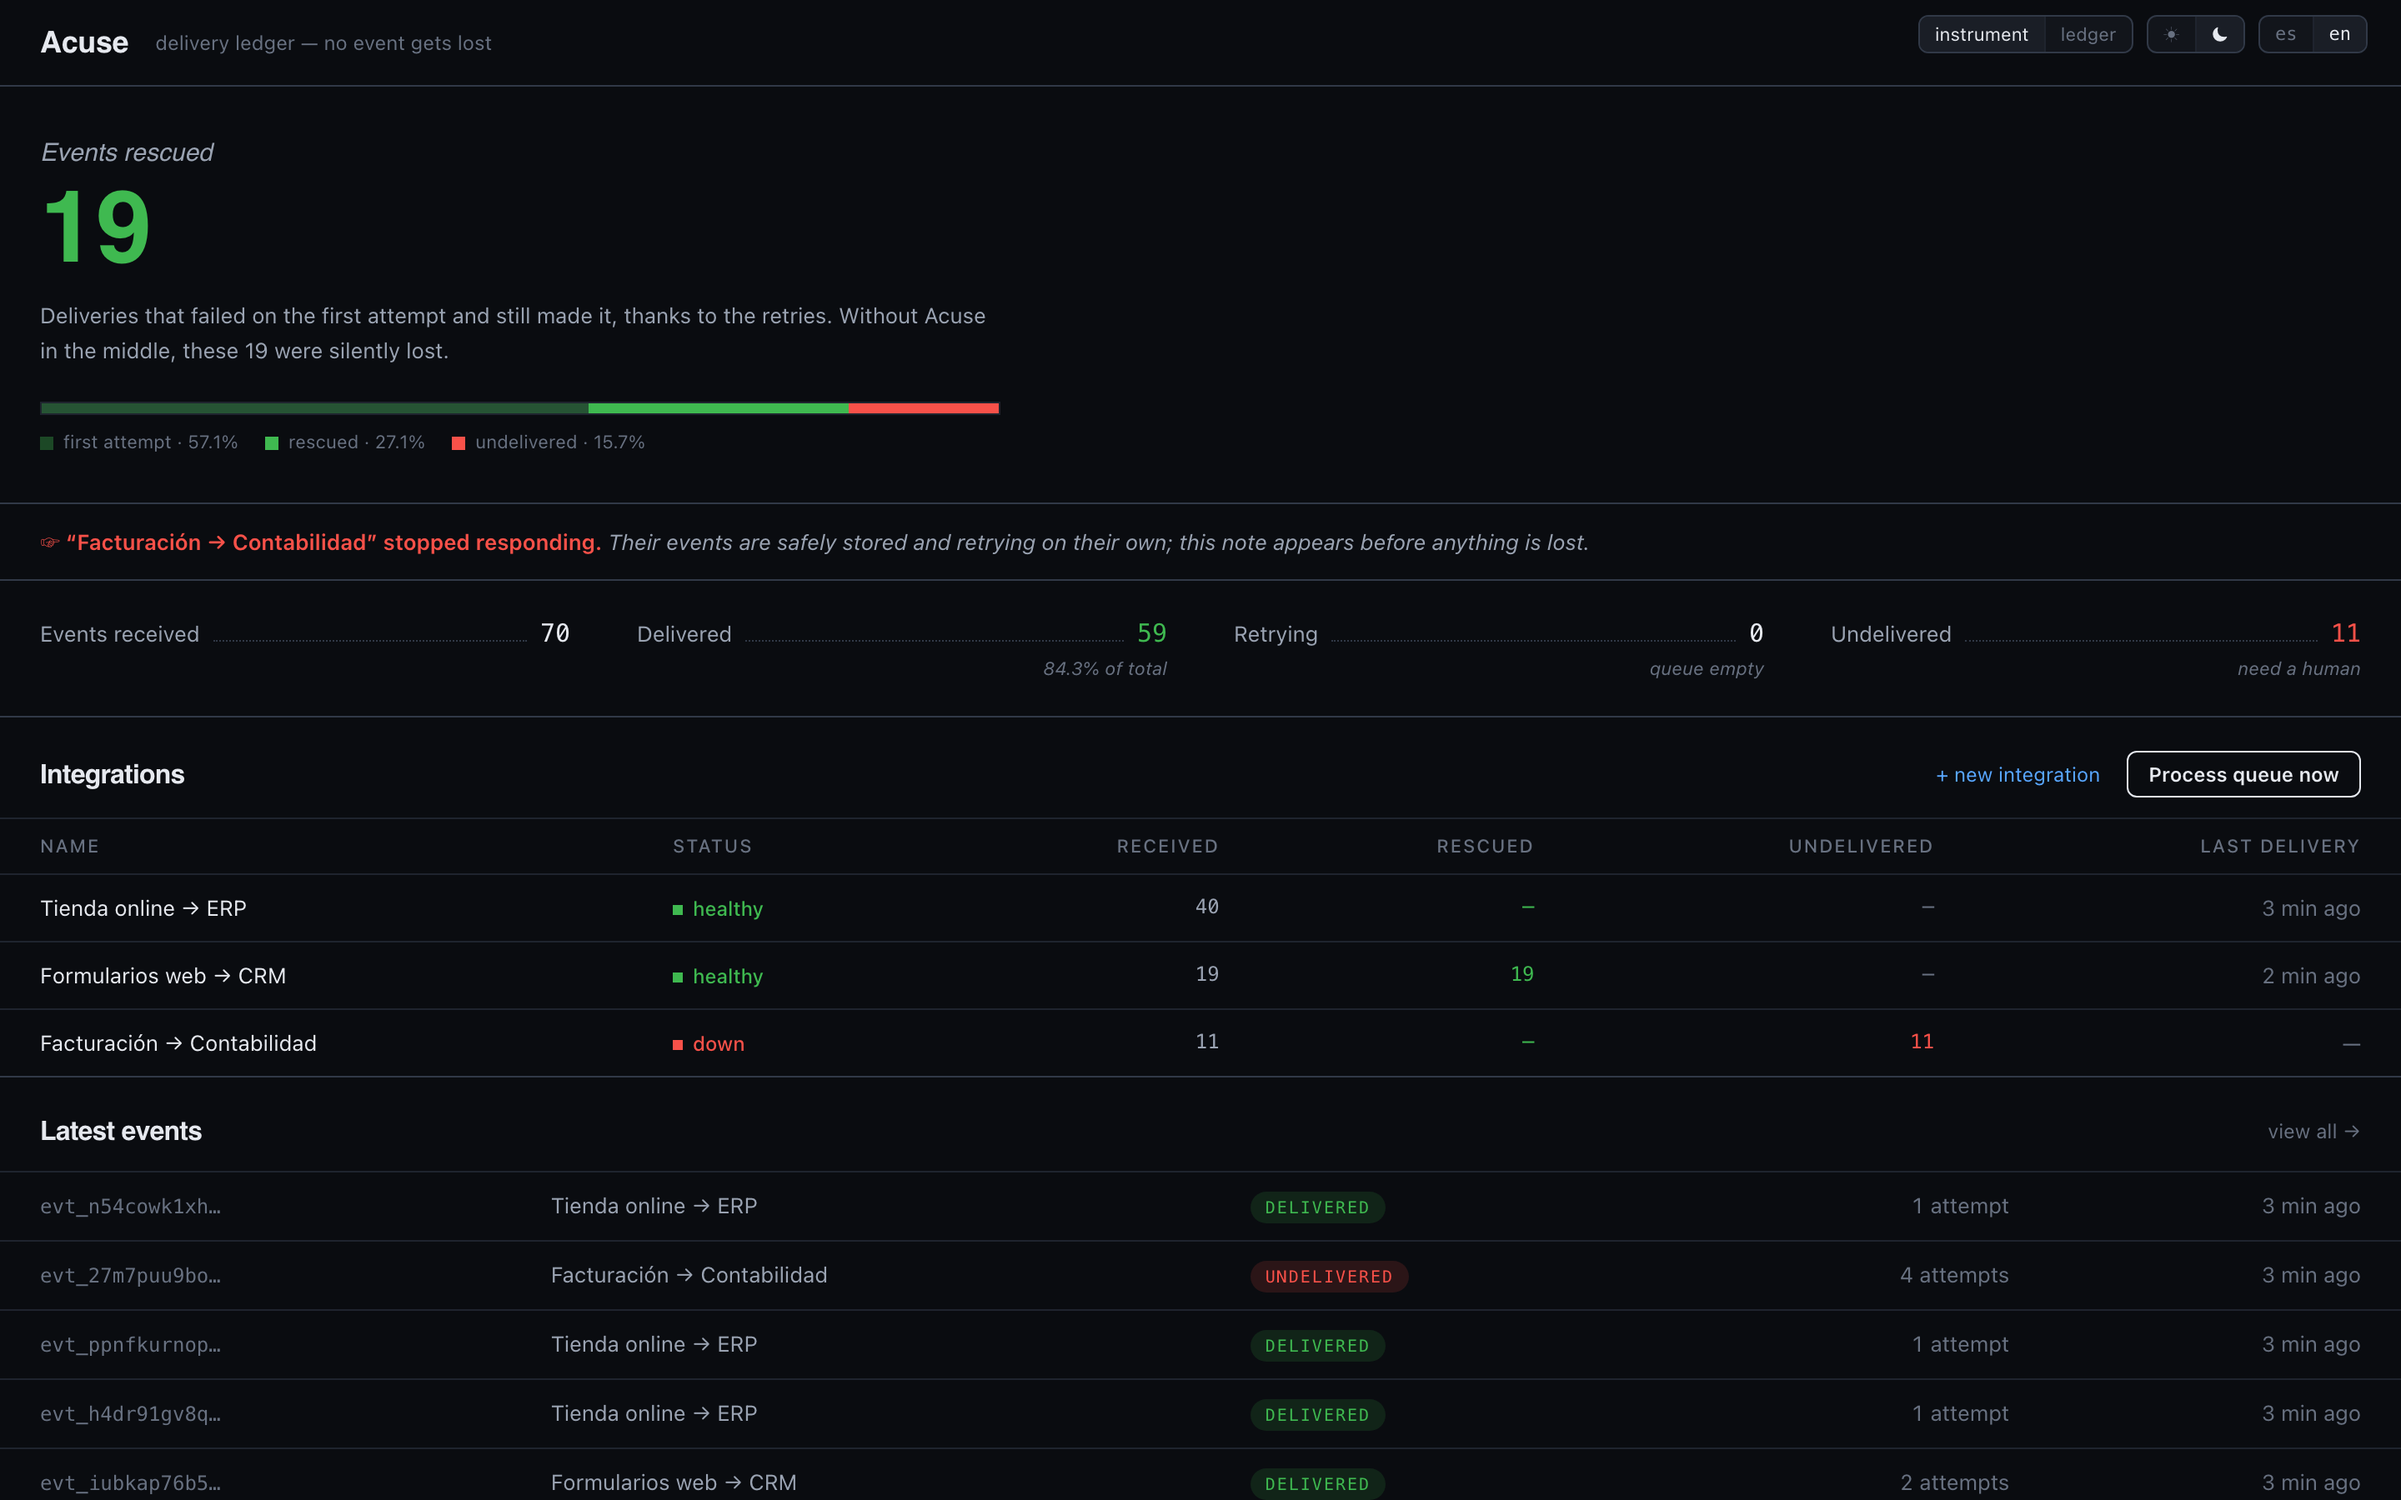
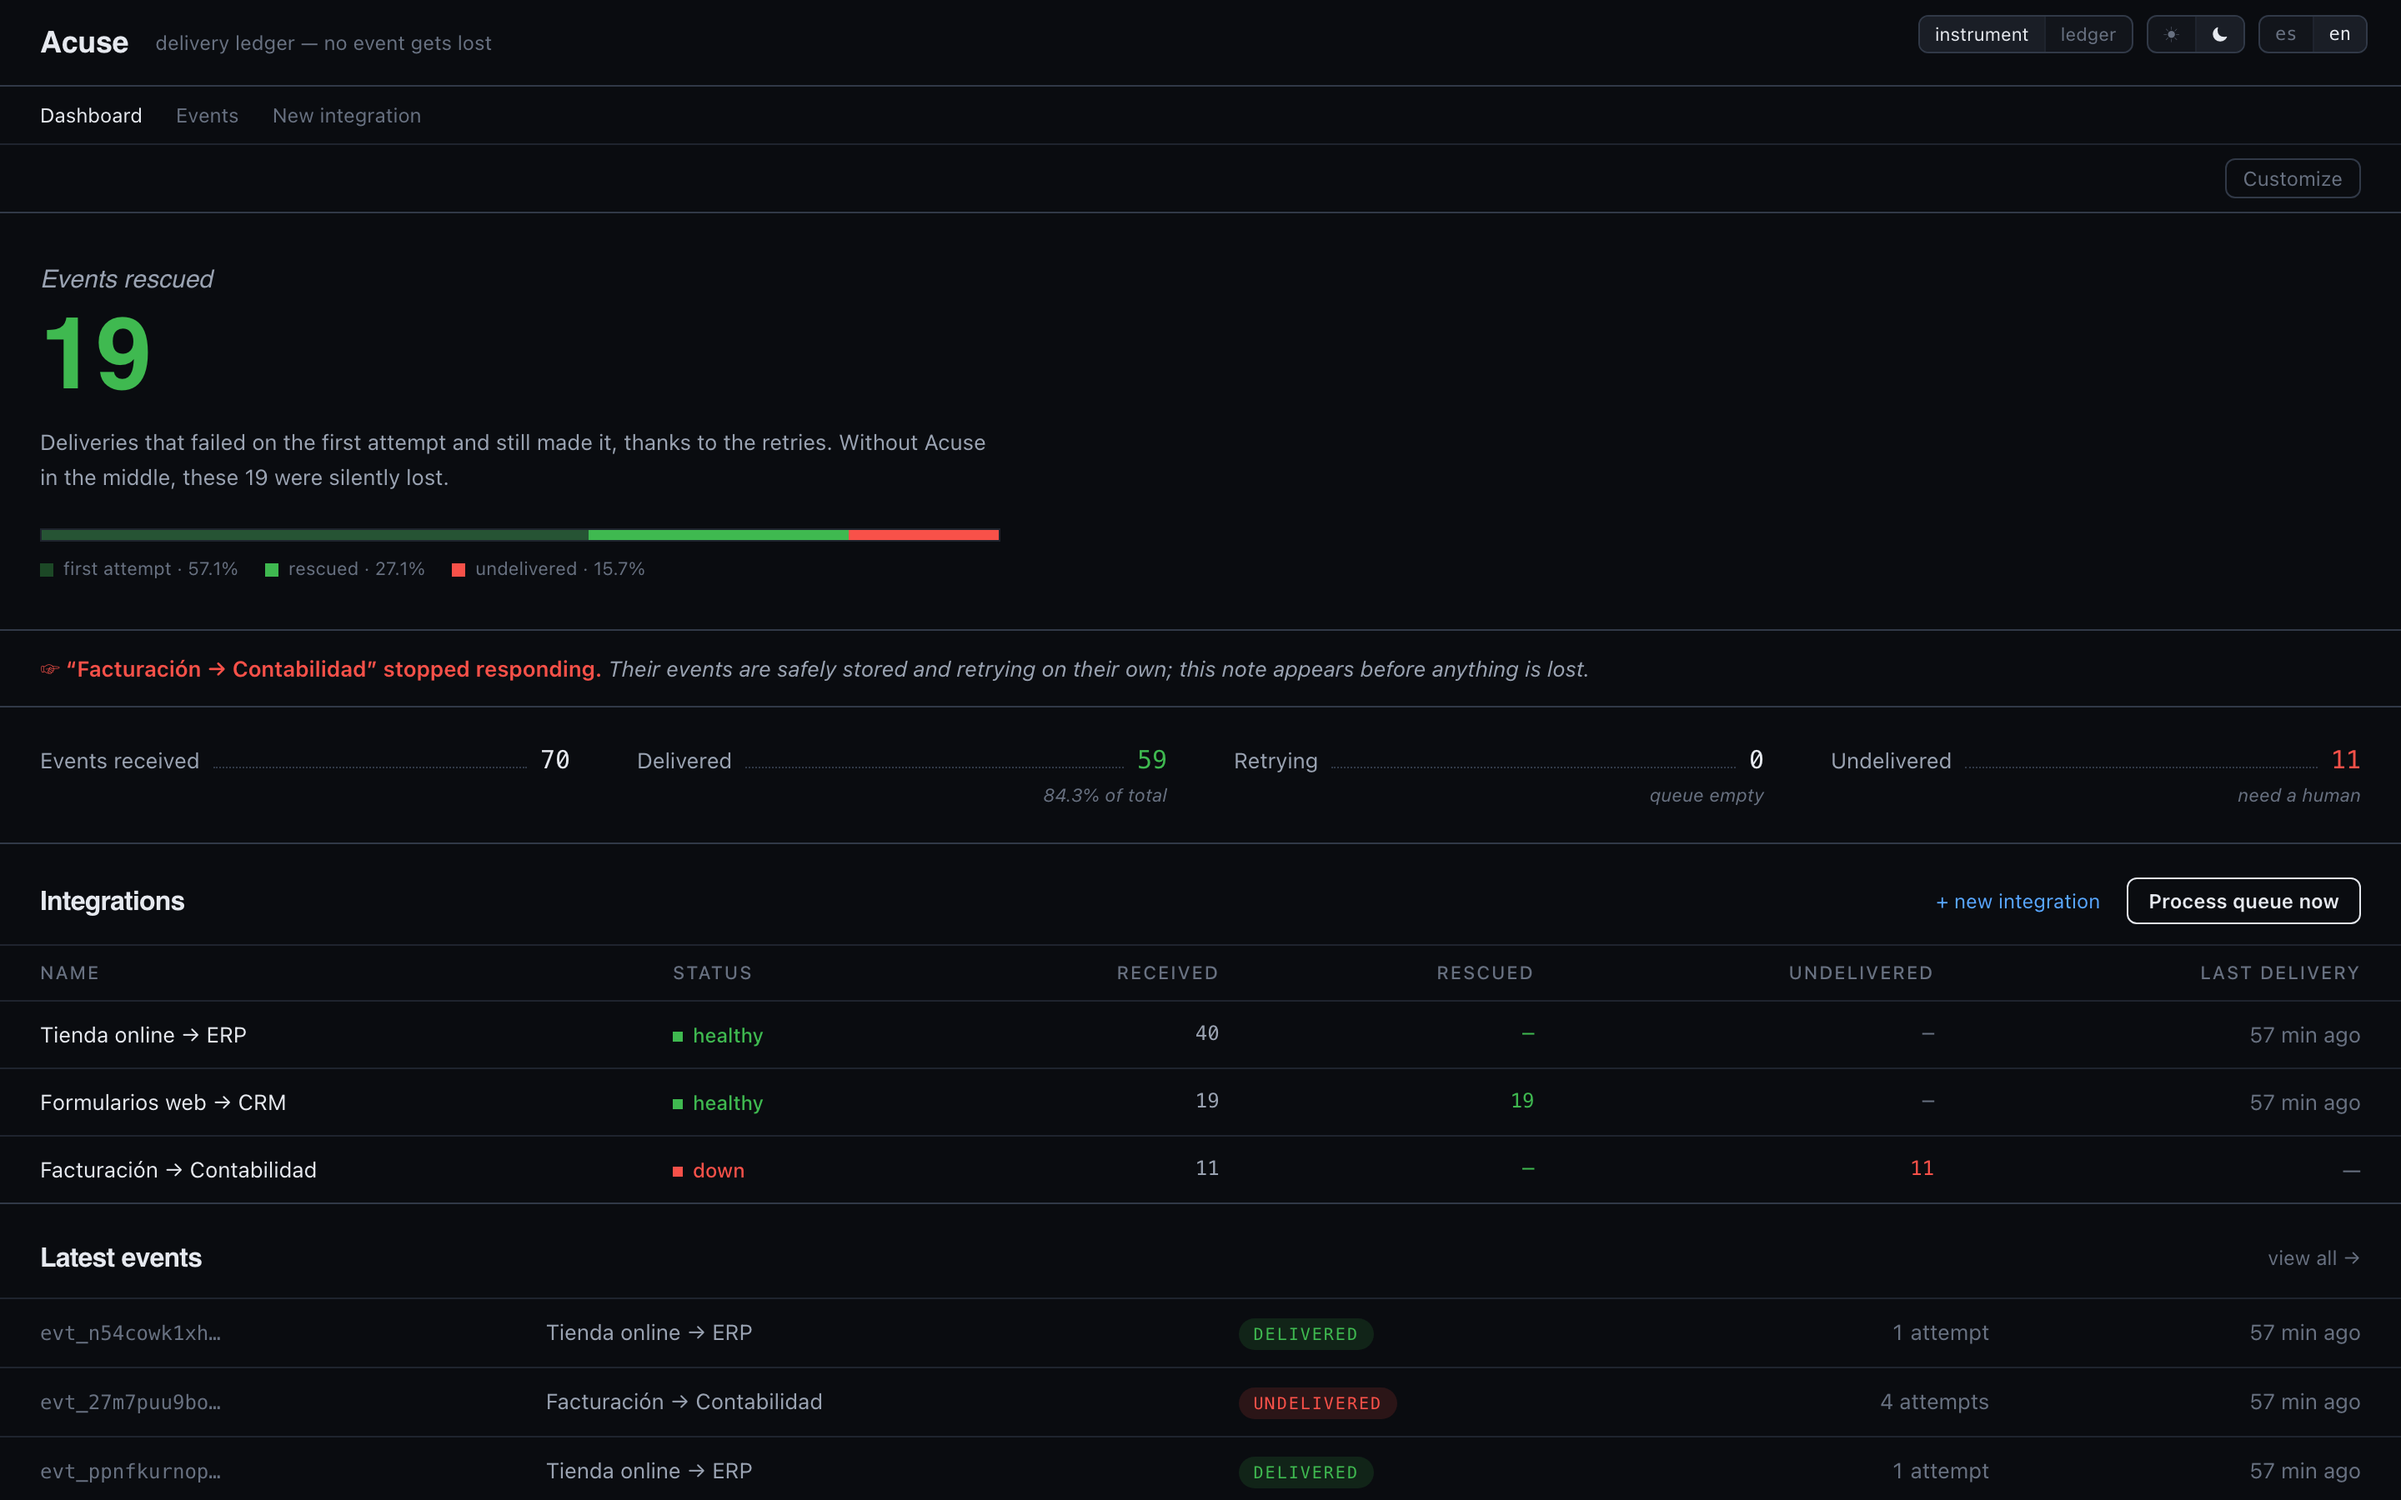
Navegación visible y panel personalizable: elegí qué secciones mostrar, con memoria

diff --git a/src/components/panel-sections.tsx b/src/components/panel-sections.tsx
@@ -1,0 +1,77 @@
+'use client'
+
+import { useEffect, useState } from 'react'
+
+const SECTION_KEYS = ['number', 'totals', 'integrations', 'latest'] as const
+
+type SectionKey = (typeof SECTION_KEYS)[number]
+
+const STORAGE_KEY = 'acuse-panel-hidden'
+
+/**
+ * The operator decides what their dashboard shows. Sections arrive fully
+ * rendered from the server; this component only decides which ones appear,
+ * and remembers the choice locally — it's a viewing preference, like the
+ * theme, not data.
+ */
+export function PanelSections({
+  customizeLabel,
+  labels,
+  sections,
+}: {
+  customizeLabel: string
+  labels: Record<SectionKey, string>
+  sections: Record<SectionKey, React.ReactNode>
+}) {
+  const [hidden, setHidden] = useState<Set<SectionKey>>(new Set())
+
+  useEffect(() => {
+    try {
+      const stored = JSON.parse(localStorage.getItem(STORAGE_KEY) ?? '[]')
+      if (Array.isArray(stored)) {
+        setHidden(new Set(stored.filter((k): k is SectionKey => SECTION_KEYS.includes(k))))
+      }
+    } catch {
+      // Unreadable prefs: show everything, which is always a safe default.
+    }
+  }, [])
+
+  function toggle(key: SectionKey) {
+    setHidden((current) => {
+      const next = new Set(current)
+      if (next.has(key)) next.delete(key)
+      else next.add(key)
+      try {
+        localStorage.setItem(STORAGE_KEY, JSON.stringify([...next]))
+      } catch {
+        // Private mode: the preference just won't survive a reload.
+      }
+      return next
+    })
+  }
+
+  return (
+    <div className="divide-y divide-line">
+      <div className="flex justify-end px-6 py-2">
+        <details className="panel-config">
+          <summary>{customizeLabel}</summary>
+          <div className="panel-config-menu">
+            {SECTION_KEYS.map((key) => (
+              <label key={key}>
+                <input
+                  type="checkbox"
+                  checked={!hidden.has(key)}
+                  onChange={() => toggle(key)}
+                />
+                {labels[key]}
+              </label>
+            ))}
+          </div>
+        </details>
+      </div>
+      {SECTION_KEYS.map((key) =>
+        hidden.has(key) ? null : <div key={key}>{sections[key]}</div>,
+      )}
+    </div>
+  )
+}

diff --git a/src/app/globals.css b/src/app/globals.css
@@ -166,6 +166,90 @@ body {
 
 /* ---------- App shell: console vs. sheet ---------- */
 
+/* Navigation strip under the header: in «instrumento» a console tab row, in
+ * «libro» the book's own index line. */
+.app-nav {
+  display: flex;
+  gap: 1.25rem;
+  padding: 0.5rem 1.5rem;
+  border-bottom: 1px solid var(--color-line-soft);
+  font-size: 12px;
+}
+
+.app-nav a {
+  color: var(--color-faint);
+  transition: color 150ms ease;
+}
+
+.app-nav a:hover {
+  color: var(--color-muted);
+}
+
+.app-nav a[aria-current='page'] {
+  color: var(--color-text);
+}
+
+[data-theme='libro'] .app-nav {
+  font-family: var(--font-serif);
+  font-style: italic;
+  font-size: 13px;
+}
+
+/* «Personalizar» dropdown on the dashboard. */
+.panel-config {
+  position: relative;
+}
+
+.panel-config summary {
+  list-style: none;
+  cursor: pointer;
+  font-size: 12px;
+  color: var(--color-faint);
+  border: 1px solid var(--color-line);
+  border-radius: var(--radius-ctl);
+  padding: 2px 10px;
+  transition: color 150ms ease;
+}
+
+.panel-config summary::-webkit-details-marker {
+  display: none;
+}
+
+.panel-config summary:hover,
+.panel-config[open] summary {
+  color: var(--color-text);
+}
+
+.panel-config-menu {
+  position: absolute;
+  right: 0;
+  top: calc(100% + 6px);
+  z-index: 30;
+  min-width: 12rem;
+  display: flex;
+  flex-direction: column;
+  gap: 0.25rem;
+  border: 1px solid var(--color-line);
+  border-radius: var(--radius-ctl);
+  background: var(--color-panel);
+  padding: 0.5rem;
+  box-shadow: 0 8px 24px rgba(0, 0, 0, 0.18);
+}
+
+.panel-config-menu label {
+  display: flex;
+  align-items: center;
+  gap: 0.5rem;
+  padding: 2px 4px;
+  font-size: 12px;
+  color: var(--color-muted);
+  cursor: pointer;
+}
+
+.panel-config-menu input {
+  accent-color: var(--color-accent);
+}
+
 /* «instrumento»: full-width console — top bar, content using the screen,
  * capped only on ultrawide monitors. */
 .app-frame {

diff --git a/src/app/page.tsx b/src/app/page.tsx
@@ -1,6 +1,7 @@
 import Link from 'next/link'
 import { processQueueAction } from './actions'
 import { AutoRefresh } from '@/components/auto-refresh'
+import { PanelSections } from '@/components/panel-sections'
 import {
   Empty,
   HealthBadge,
@@ -31,14 +32,15 @@ export default async function DashboardPage() {
 
   const broken = endpoints.filter((endpoint) => endpoint.health === 'down')
 
-  return (
-    <Sheet>
-      <AutoRefresh />
+  const numberSection = (
+    <div className="divide-y divide-line">
       <Headline stats={stats} lang={lang} />
-
       {broken.length > 0 ? <MarginNote names={broken.map((e) => e.name)} lang={lang} /> : null}
+    </div>
+  )
 
-      <Totals
+  const totalsSection = (
+    <Totals
         lang={lang}
         items={[
           { label: t.dashboard.received, value: stats.received },
@@ -64,7 +66,9 @@ export default async function DashboardPage() {
           },
         ]}
       />
+  )
 
+  const integrationsSection = (
       <Section>
         <SectionTitle
           aside={
@@ -146,7 +150,9 @@ export default async function DashboardPage() {
           </div>
         )}
       </Section>
+  )
 
+  const latestSection = (
       <Section>
         <SectionTitle
           aside={
@@ -195,6 +201,26 @@ export default async function DashboardPage() {
           </div>
         )}
       </Section>
+  )
+
+  return (
+    <Sheet>
+      <AutoRefresh />
+      <PanelSections
+        customizeLabel={t.dashboard.customize}
+        labels={{
+          number: t.dashboard.sectionNumber,
+          totals: t.dashboard.sectionTotals,
+          integrations: t.dashboard.integrations,
+          latest: t.dashboard.latestEvents,
+        }}
+        sections={{
+          number: numberSection,
+          totals: totalsSection,
+          integrations: integrationsSection,
+          latest: latestSection,
+        }}
+      />
     </Sheet>
   )
 }

diff --git a/src/lib/i18n.ts b/src/lib/i18n.ts
@@ -22,6 +22,9 @@ const es = {
     tagline: 'registro de entregas — ningún evento se pierde',
     demoNote: 'Instancia de demostración · el tráfico lo genera',
     themeNames: { instrumento: 'instrumento', libro: 'libro' },
+    navDashboard: 'Panel',
+    navEvents: 'Eventos',
+    navNew: 'Nueva integración',
   },
   status: {
     delivered: 'entregado',
@@ -75,6 +78,9 @@ const es = {
     colDead: 'Sin entregar',
     colLastDelivery: 'Última entrega',
     paused: '(en pausa)',
+    customize: 'Personalizar',
+    sectionNumber: 'El número',
+    sectionTotals: 'Totales',
     latestEvents: 'Últimos eventos',
     viewAll: 'ver todos →',
     emptyIntegrations: 'No hay integraciones todavía. Corré',
@@ -180,6 +186,9 @@ const en: typeof es = {
     tagline: 'delivery ledger — no event gets lost',
     demoNote: 'Demo instance · traffic is generated by',
     themeNames: { instrumento: 'instrument', libro: 'ledger' },
+    navDashboard: 'Dashboard',
+    navEvents: 'Events',
+    navNew: 'New integration',
   },
   status: {
     delivered: 'delivered',
@@ -233,6 +242,9 @@ const en: typeof es = {
     colDead: 'Undelivered',
     colLastDelivery: 'Last delivery',
     paused: '(paused)',
+    customize: 'Customize',
+    sectionNumber: 'The number',
+    sectionTotals: 'Totals',
     latestEvents: 'Latest events',
     viewAll: 'view all →',
     emptyIntegrations: 'No integrations yet. Run',

diff --git a/src/app/layout.tsx b/src/app/layout.tsx
@@ -3,6 +3,7 @@ import Link from 'next/link'
 import Script from 'next/script'
 import { LangToggle } from '@/components/lang-toggle'
 import { SchemeToggle } from '@/components/scheme-toggle'
+import { ShellNav } from '@/components/shell-nav'
 import { ThemeToggle } from '@/components/theme-toggle'
 import { dict } from '@/lib/i18n'
 import { getLang } from '@/lib/lang'
@@ -55,6 +56,13 @@ export default async function RootLayout({ children }: { children: React.ReactNo
             </Link>
             <p className="app-tagline">{t.shell.tagline}</p>
           </header>
+          <ShellNav
+            items={[
+              { href: '/', label: t.shell.navDashboard },
+              { href: '/events', label: t.shell.navEvents },
+              { href: '/endpoints/new', label: t.shell.navNew },
+            ]}
+          />
           <main className="app-main">{children}</main>
           <footer className="app-footer">
             {t.shell.demoNote} <code className="font-mono text-muted">npm run simulate</code>

diff --git a/src/components/shell-nav.tsx b/src/components/shell-nav.tsx
@@ -1,0 +1,26 @@
+'use client'
+
+import Link from 'next/link'
+import { usePathname } from 'next/navigation'
+
+/**
+ * The navigation strip under the header. It earned its place once the app
+ * grew past one page: navigation you can see is what separates a product
+ * from a rendered dashboard.
+ */
+export function ShellNav({ items }: { items: { href: string; label: string }[] }) {
+  const pathname = usePathname()
+
+  return (
+    <nav className="app-nav" aria-label="Main">
+      {items.map((item) => {
+        const active = item.href === '/' ? pathname === '/' : pathname.startsWith(item.href)
+        return (
+          <Link key={item.href} href={item.href} aria-current={active ? 'page' : undefined}>
+            {item.label}
+          </Link>
+        )
+      })}
+    </nav>
+  )
+}
